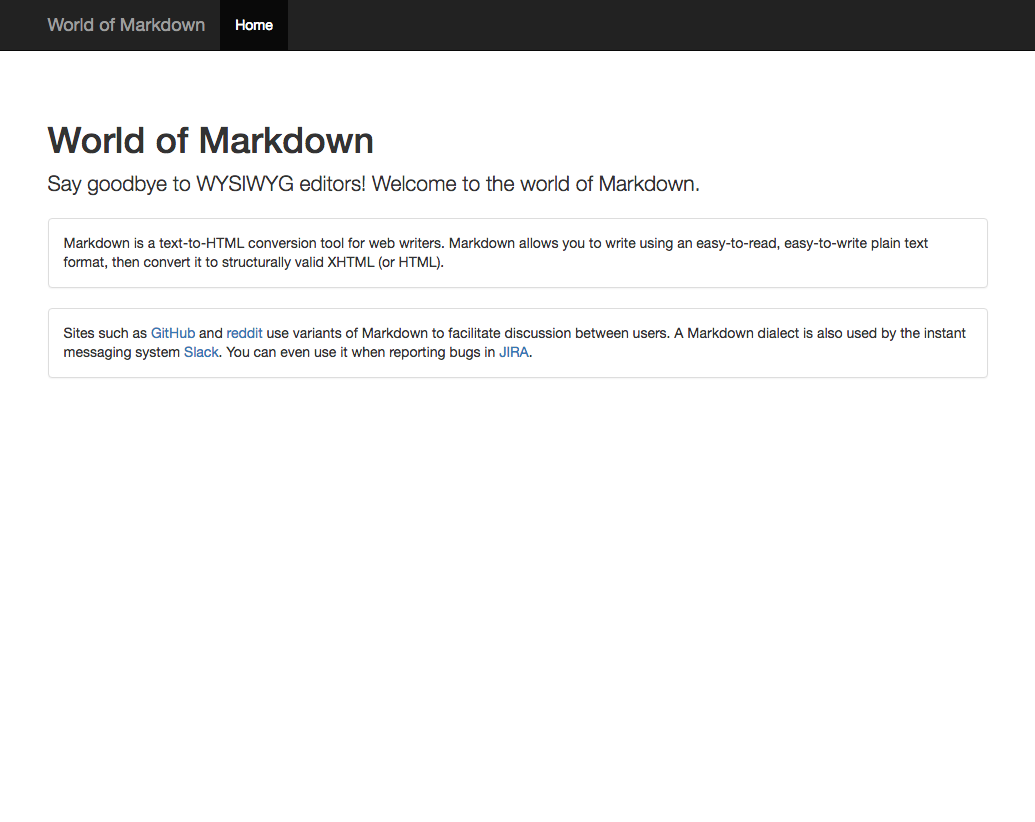
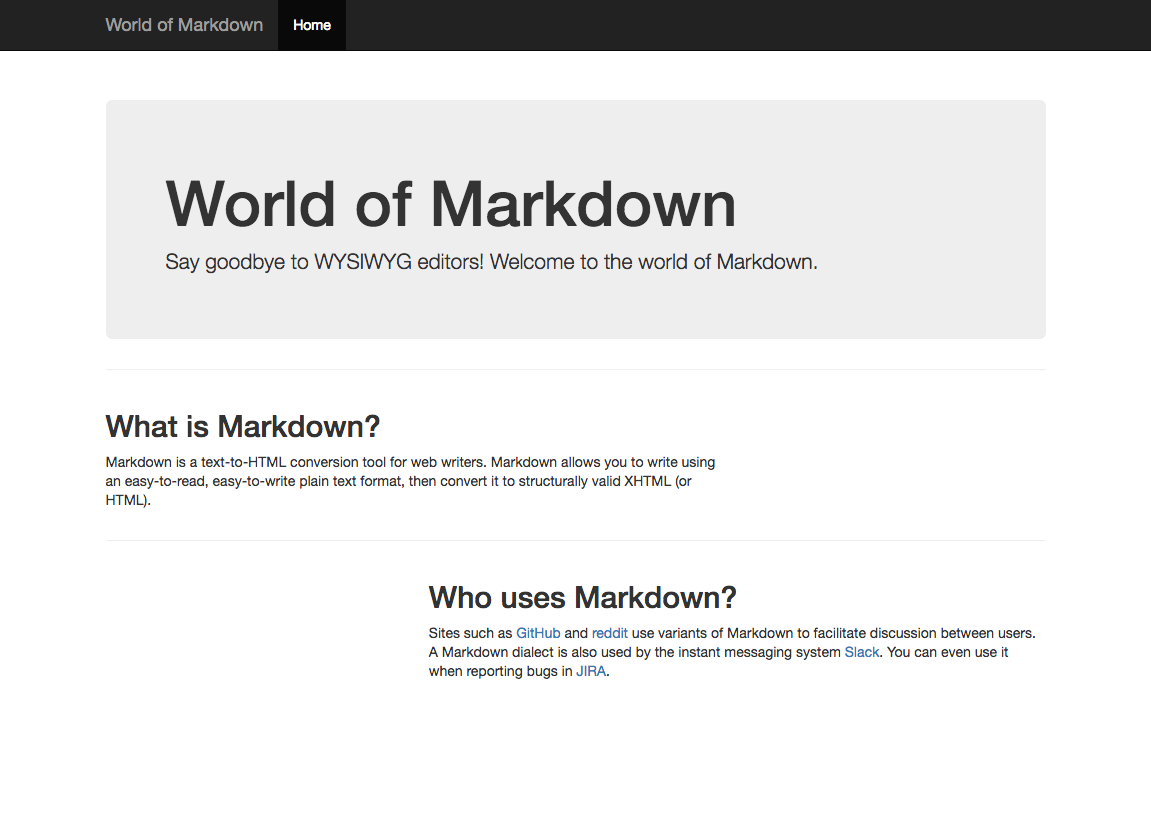
Exercise 2

diff --git a/README.md b/README.md
@@ -109,3 +109,18 @@ grunt.initConfig({
 ```
 
 Now, if we run `grunt watch`, and we change something in `main.scss`, Grunt will recompile `main.css` and we only have to refresh our browser.
+
+## exercise 2: style the homepage
+
+The next step is to make sure the homepage is styled according to the design.
+
+You can find a mockup in `doc/designs/homepage.png`.
+
+To find out how to use Bootstrap to get there, open http://getbootstram.com/ and visit the following sections:
+
+  - Components > Navbar (Inverted navbar, Fixed to top!)
+  - Components > Jumbotron
+  - `<hr>` is not documented
+  - CSS > Grid system
+
+You will need no custom styling, except for a `margin-top` to get clear from the nav bar.
